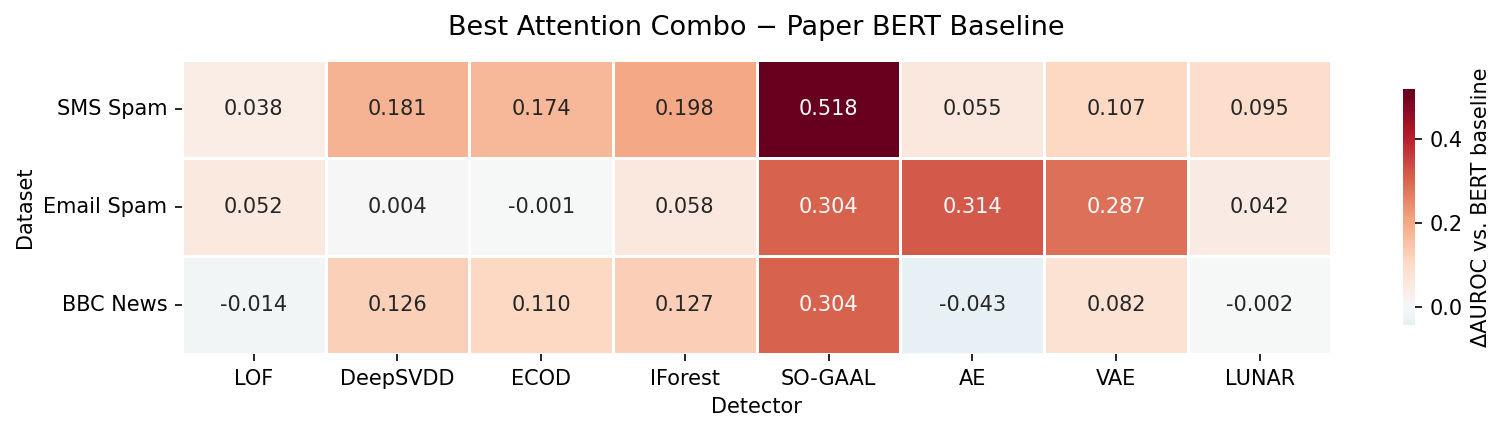
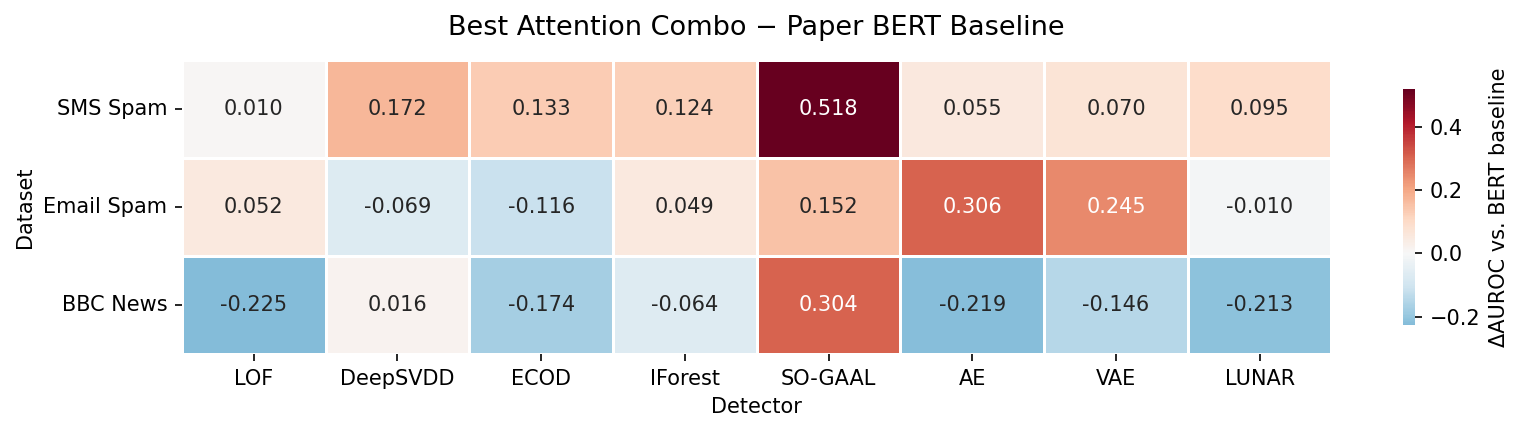
Fix gain_vs_bert: exclude cls_token_pca from attention-only filter
Previously only cls_token_raw was excluded, so PCA-of-CLS combinations
could appear as the "best attention combo", inflating gains vs. the BERT
baseline. Now both CLS features are filtered out before taking the max.

diff --git a/plot_results.py b/plot_results.py
@@ -84,7 +84,7 @@ def plot_gain_vs_bert(dfs: dict[str, pd.DataFrame], out_path: str) -> None:
     gain_rows = {}
     for ds in DATASETS:
         d = dfs[ds]
-        attn_only = d[d["has_cls_token_raw"] == 0]
+        attn_only = d[(d["has_cls_token_raw"] == 0) & (d["has_cls_token_pca"] == 0)]
         gains = {}
         for det in DETECTORS:
             sub = attn_only[attn_only["detector"] == det]